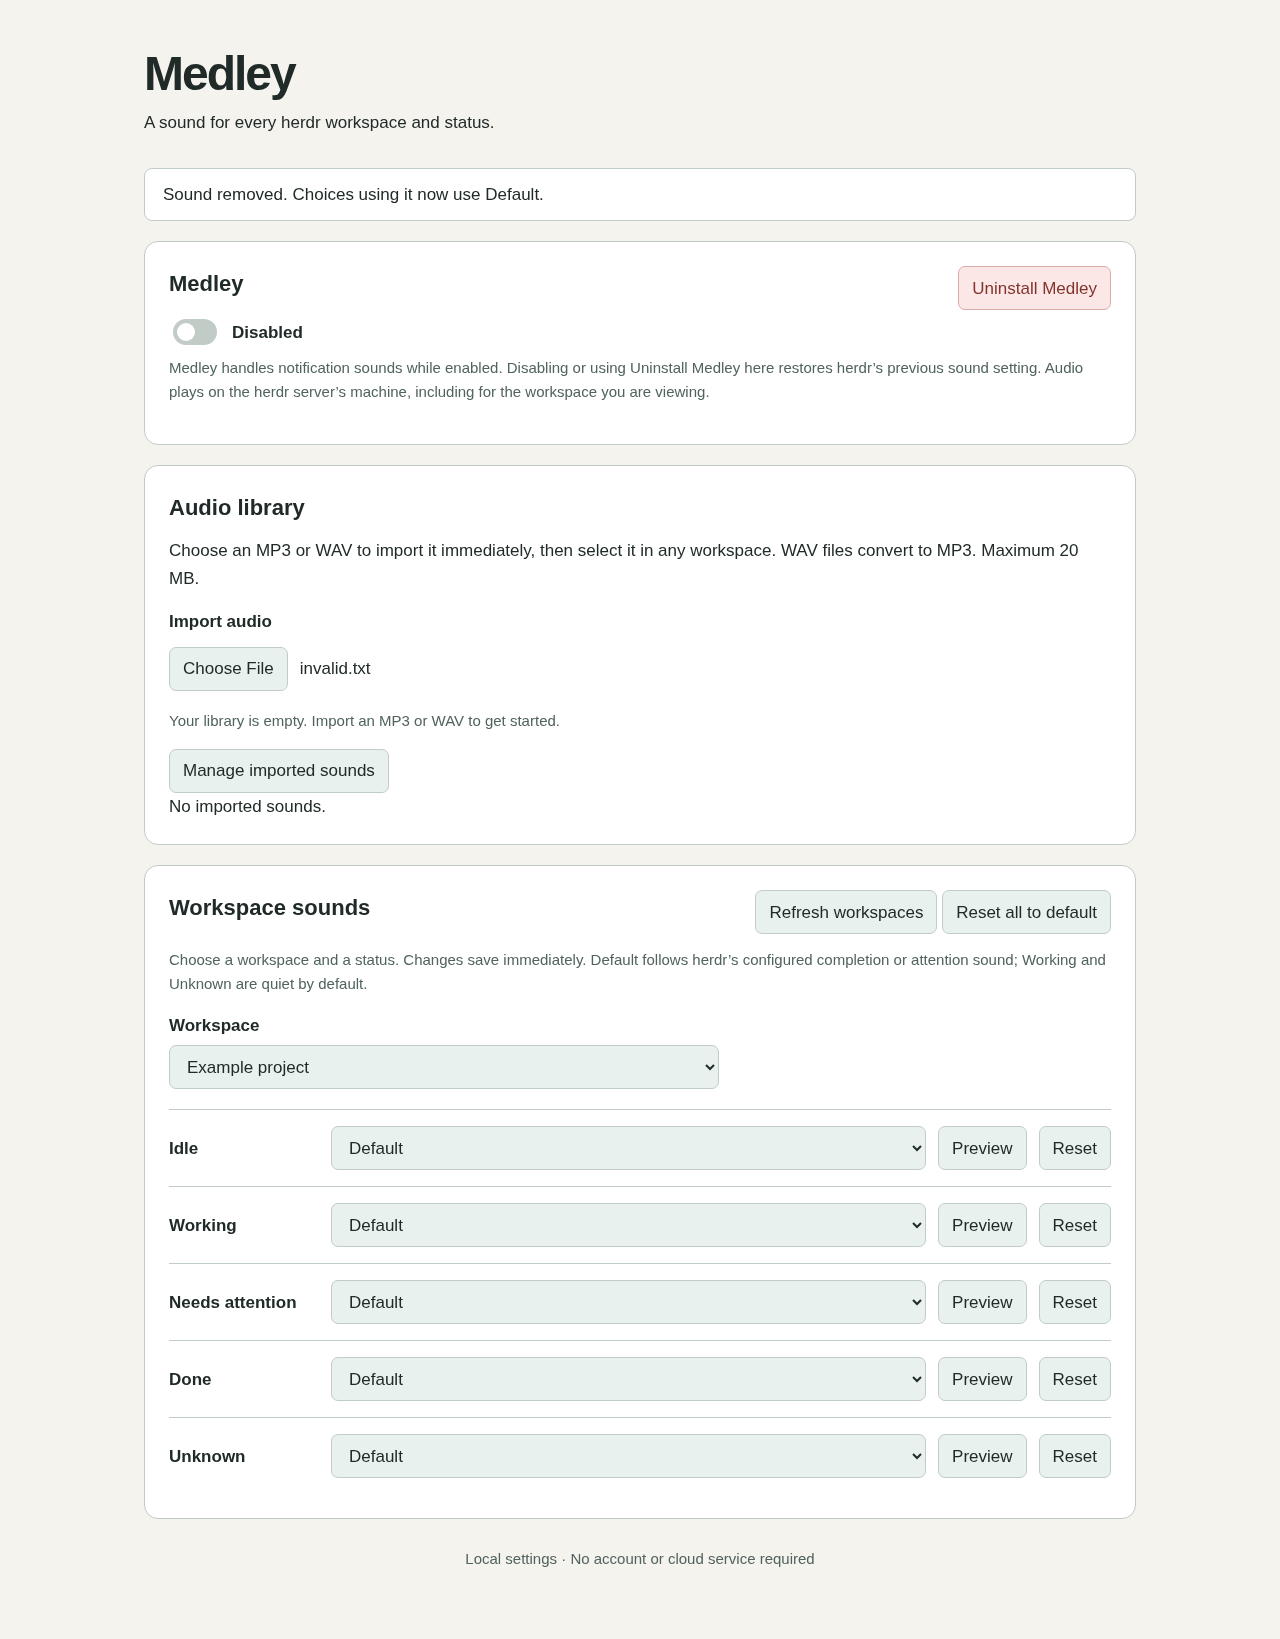
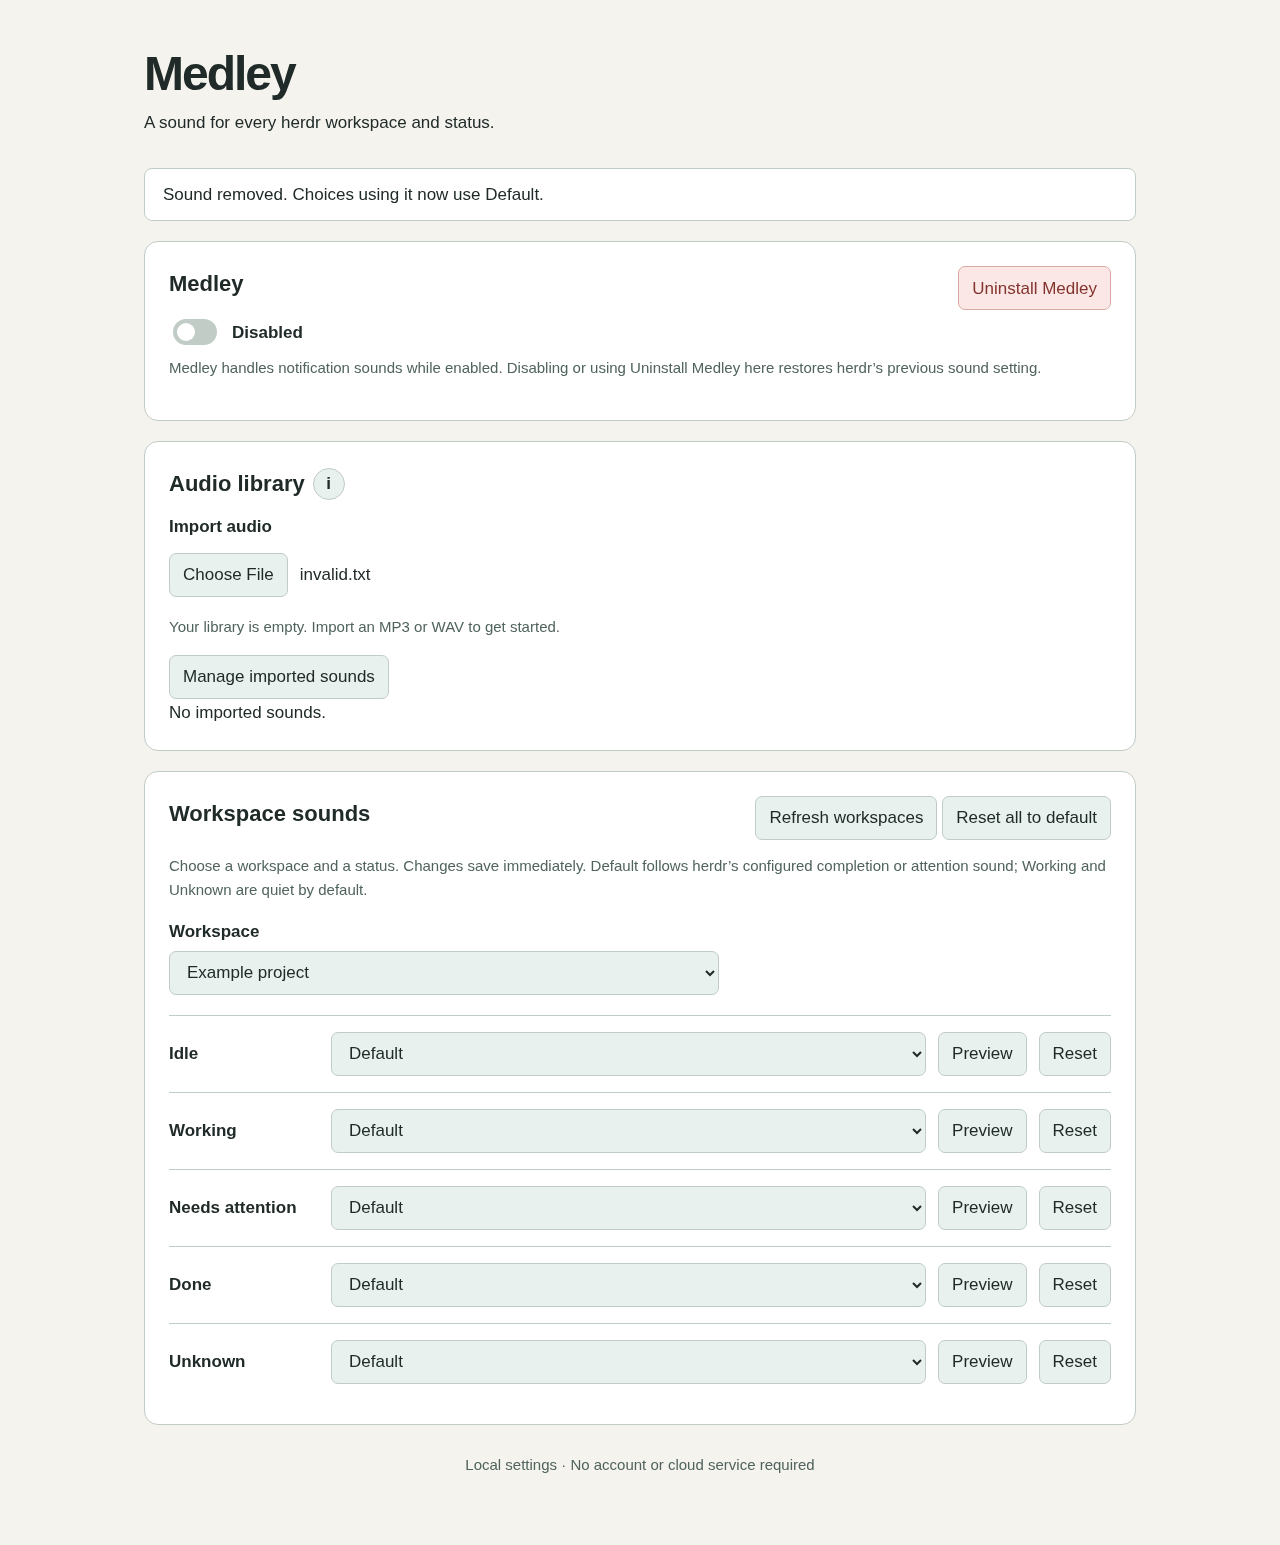
Move audio import guidance into an info popup

diff --git a/assets/index.html b/assets/index.html
@@ -3,7 +3,7 @@
 <body><main><header><h1>Medley</h1><p>A sound for every herdr workspace and status.</p></header>
 <p id="feedback" role="status" aria-live="polite" hidden></p><p id="error" role="alert" hidden></p><audio id="player" controls hidden aria-label="Sound preview"></audio>
 <section aria-labelledby="playback-heading"><div class="section-heading"><h2 id="playback-heading">Medley</h2><button id="uninstall">Uninstall Medley</button></div><label class="toggle"><input type="checkbox" role="switch" aria-label="Medley enabled" id="enabled"> <span id="enabled-label">Disabled</span></label><p class="help">Medley handles notification sounds while enabled. Disabling or using Uninstall Medley here restores herdr’s previous sound setting.</p></section>
-<section aria-labelledby="library-heading"><h2 id="library-heading">Audio library</h2><p>Choose an MP3 or WAV to import it immediately, then select it in any workspace. WAV files convert to MP3. Maximum 20 MB.</p><label for="upload">Import audio</label><input type="file" accept=".mp3,.wav,audio/mpeg,audio/wav" id="upload"><p id="library" class="help"></p><button id="manage-library" aria-expanded="false" aria-controls="library-files">Manage imported sounds</button><div id="library-files" hidden></div></section>
+<section aria-labelledby="library-heading"><div class="library-heading"><h2 id="library-heading">Audio library</h2><button class="info-button" type="button" popovertarget="library-help" aria-label="About audio imports">i</button></div><div id="library-help" popover>Choose an MP3 or WAV to import it immediately, then select it in any workspace. WAV files convert to MP3. Maximum 20 MB.</div><label for="upload">Import audio</label><input type="file" accept=".mp3,.wav,audio/mpeg,audio/wav" id="upload"><p id="library" class="help"></p><button id="manage-library" aria-expanded="false" aria-controls="library-files">Manage imported sounds</button><div id="library-files" hidden></div></section>
 <section aria-labelledby="rules-heading"><div class="section-heading"><h2 id="rules-heading">Workspace sounds</h2><div><button id="refresh">Refresh workspaces</button> <button id="reset">Reset all to default</button> <button id="undo" hidden>Undo reset</button></div></div><p class="help">Choose a workspace and a status. Changes save immediately. Default follows herdr’s configured completion or attention sound; Working and Unknown are quiet by default.</p>
 <div class="filters"><div><label for="workspace">Workspace</label><select id="workspace"></select></div></div><div id="rules"></div></section>
 <footer>Local settings · No account or cloud service required</footer></main></body></html>

diff --git a/assets/style.css b/assets/style.css
@@ -4,3 +4,5 @@
 
 .toggle input[role=switch]{appearance:none;width:44px;height:26px;border-radius:16px;background:var(--border);position:relative;flex-shrink:0;cursor:pointer}.toggle input[role=switch]::before{content:'';position:absolute;width:18px;height:18px;border-radius:50%;left:4px;top:4px;background:var(--panel)}.toggle input[role=switch]:checked{background:var(--accent)}.toggle input[role=switch]:checked::before{left:22px}
 #uninstall{background:#fbe8e6;border-color:#dba9a4;color:#82332d}#uninstall:hover{background:#f7d9d5;border-color:#b9766e}@media(prefers-color-scheme:dark){#uninstall{background:#49302f;border-color:#9e6862;color:#ffd4cf}#uninstall:hover{background:#593735;border-color:#c28a82}}
+
+.library-heading{display:flex;align-items:center;gap:8px;margin-bottom:12px}.library-heading h2{margin:0}.info-button{min-height:32px;width:32px;padding:0;border-radius:50%;font-size:17px;font-weight:600}#library-help{max-width:min(420px,calc(100vw - 32px));padding:20px;background:var(--panel);color:var(--ink);border:1px solid var(--border);border-radius:12px}#library-help::backdrop{background:transparent}

diff --git a/docs/validation.md b/docs/validation.md
@@ -223,3 +223,12 @@ Uninstall uses a soft red fill, border and text with matching hover colors in
 light and dark themes. Existing focus ring and native button behavior retained.
 15 Python tests and Chromium browser checks passed; synthetic captures refreshed.
 Only destructive-action color styling changed; no API, layout or state change.
+
+## Audio library info popup — 2026-10-20
+
+Import guidance moved unchanged into a native popover, opened by a circular i
+button beside Audio library with accessible name “About audio imports”. Native
+popover supplies Escape and light-dismiss behavior. Chromium explicitly checks
+initially hidden, click-to-open and Escape dismissal; 15 Python tests also pass.
+Existing keyboard checks and mobile overflow checks pass. Synthetic captures updated.
+No extra always-visible prose, modal trap, custom keyboard handler or new endpoint.
